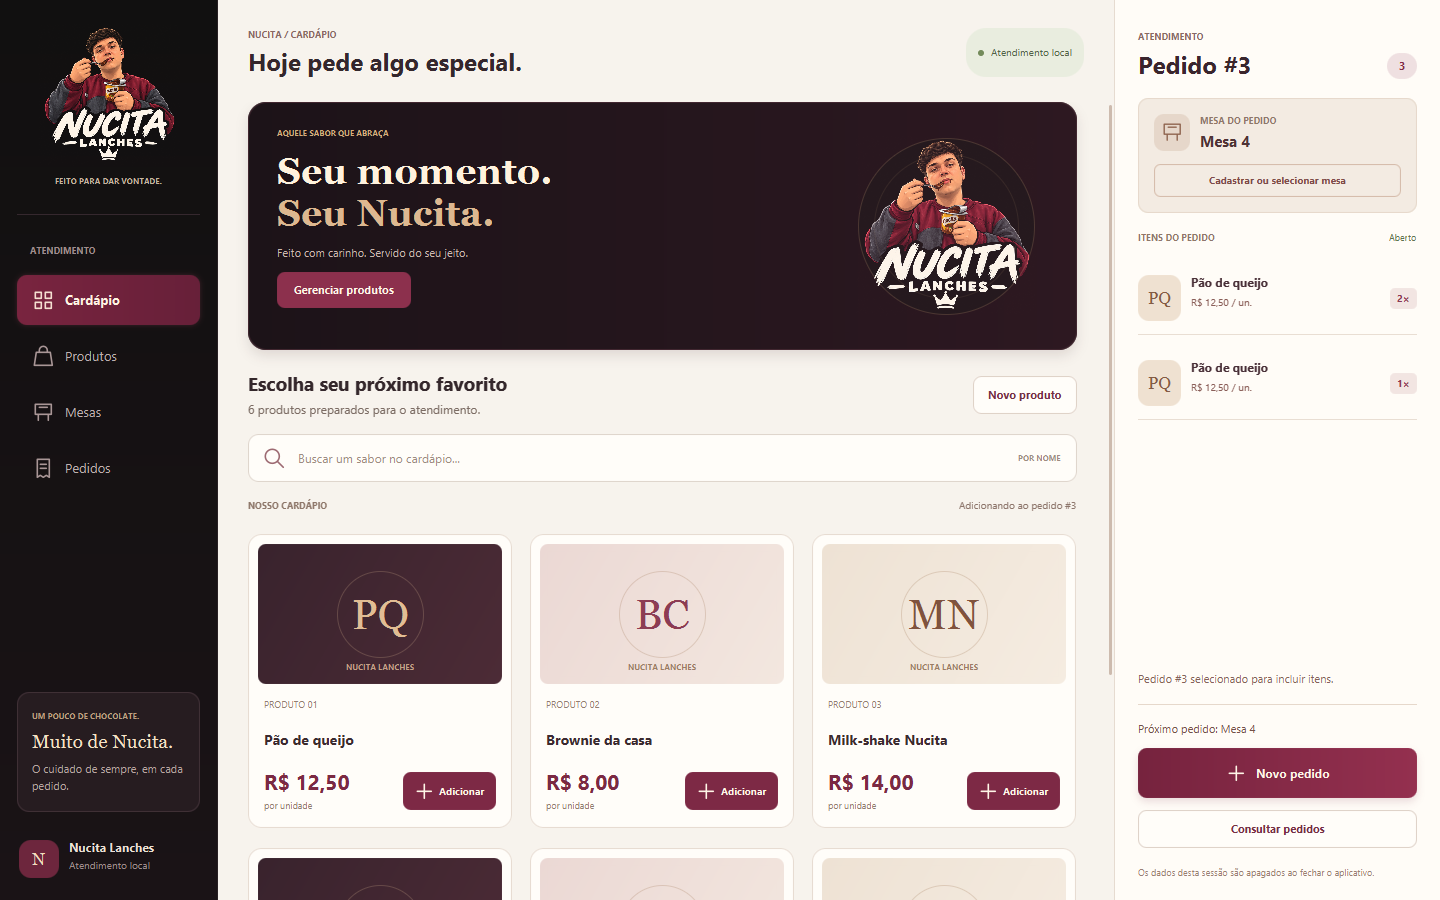
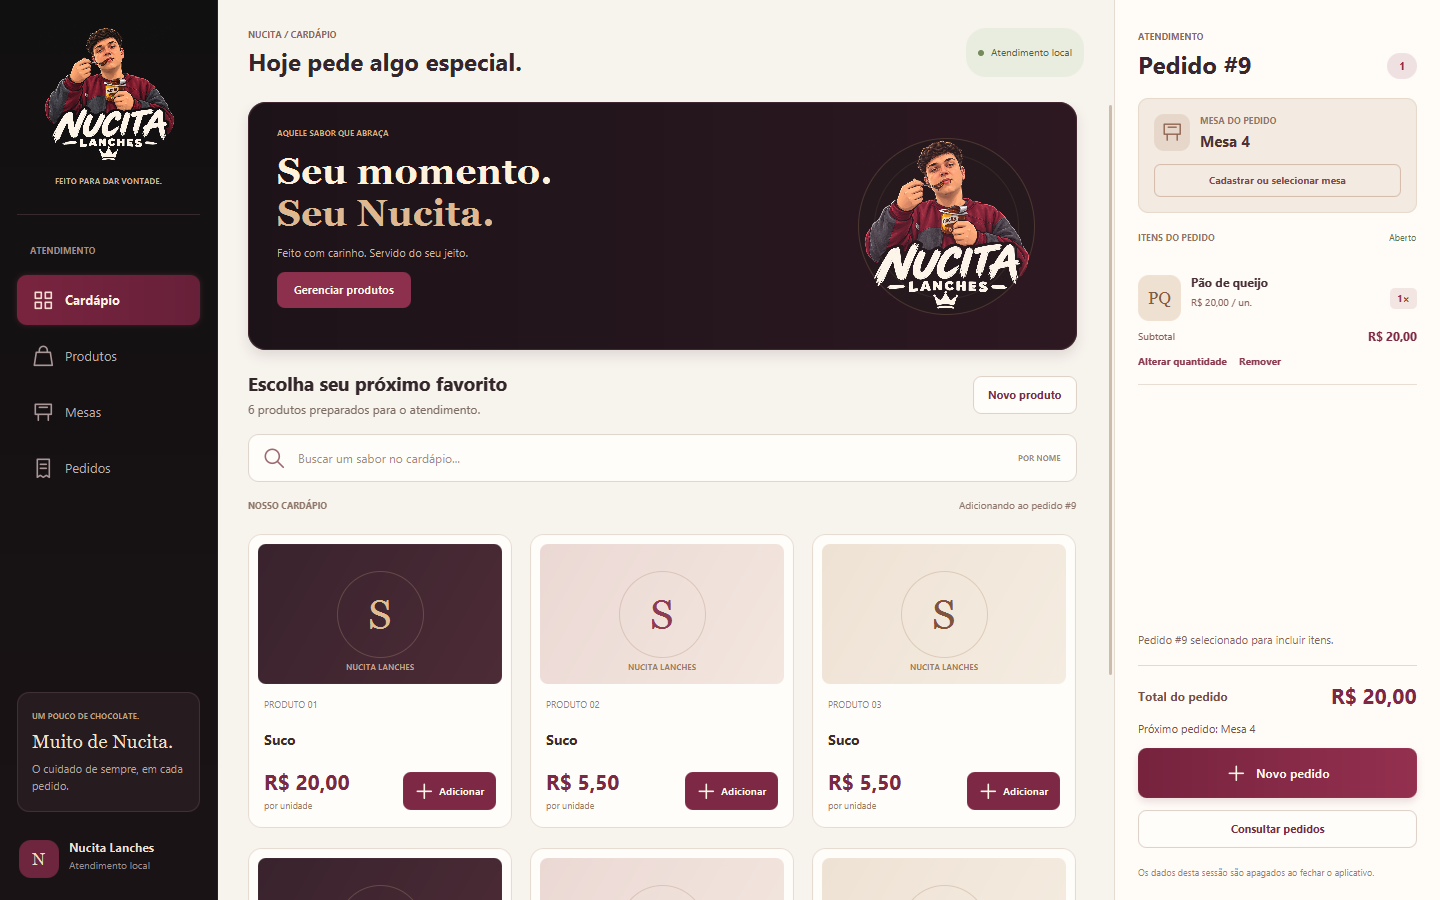
docs: registrar regras aprovadas e uso da Issue 04

diff --git a/README.md b/README.md
@@ -15,12 +15,13 @@ A interface utiliza as operações existentes de cadastro de produtos e mesas, c
 | Produtos | Cadastrar nome e preço e listar produtos. Na interface, a listagem pode ser filtrada por nome. |
 | Mesas | Cadastrar um número positivo e único, consultar pelo número, listar e selecionar para atendimento. |
 | Pedidos | Criar pedido para uma mesa cadastrada, com número atribuído pelo armazenamento e status inicial `ABERTO`. |
-| Itens | Adicionar produto e quantidade positiva a um pedido existente e consultar os itens. |
+| Itens | Adicionar produtos cadastrados, somar quantidades do mesmo produto, alterar quantidade e remover itens. |
+| Valores | Guardar o preço da inclusão, calcular subtotal por item e total atualizado do pedido, usando `double`. |
 | Atendimento | Consultar os pedidos, selecionar um para continuar a inclusão de itens e manter vários pedidos para a mesma mesa. |
 
-A camada JavaFX chama as classes existentes de `application`, `domain` e `storage`. As regras de negócio e o armazenamento do principal foram preservados na integração.
+A camada JavaFX chama as classes de `application`, `domain` e `storage`. A [Issue 04](docs/ISSUE-04.md) acrescenta as operações de valores, alteração de quantidade e remoção, com as decisões aprovadas para o projeto. O armazenamento continua em memória.
 
-**Ainda planejado:** subtotal e total do pedido, remoção de itens, finalização com bloqueio de alterações e persistência após fechar. O modelo possui o estado `FINALIZADO`, mas a operação de finalização ainda não existe.
+**Ainda planejado:** finalização com bloqueio de alterações e persistência após fechar. O modelo possui o estado `FINALIZADO`, mas a operação de finalização ainda não existe.
 
 ## Requisitos
 
@@ -59,7 +60,9 @@ O comando mantém a entrada `HelloApplication` e abre a interface de atendimento
 4. No cardápio, clique em **Adicionar**, informe a quantidade e confirme.
 5. Abra **Pedidos** e escolha **Continuar pedido** para incluir itens em um pedido já criado.
 
-O campo de preço aceita ponto ou vírgula como separador decimal e entrega o valor ao modelo original `Produto`, que valida nome e preço. Não há regra adicional de duas casas decimais no cadastro; a exibição monetária é apenas uma formatação da tela. Cada inclusão gera um item, conforme o comportamento existente.
+O campo de preço aceita ponto ou vírgula como separador decimal e entrega o valor ao modelo `Produto`, que valida nome e preço. Não há regra adicional de duas casas decimais no cadastro; a exibição monetária é apenas uma formatação da tela.
+
+Adicionar novamente o mesmo produto soma sua quantidade em um único item e mantém o preço guardado na primeira inclusão. No painel existente, use **Alterar quantidade** ou **Remover**; subtotal e total são atualizados. Todos os produtos cadastrados estão disponíveis, e produtos inexistentes são rejeitados.
 
 Ao fechar o programa, os produtos, mesas e pedidos da sessão são apagados, como no armazenamento original.
 
@@ -79,9 +82,9 @@ Compilar e empacotar:
 
 No Linux ou macOS, use `bash ./mvnw` no lugar de `.\mvnw.cmd`.
 
-A validação da integração em **27/10/2026** cobre **14 testes**: os 13 testes originais de domínio/aplicação e um teste de integração que abre a aplicação oficial, usa os formulários JavaFX e verifica o vínculo entre mesas, pedidos e itens. Também são conferidos a precisão de preço aceita pelo domínio e o layout em janela de 1220 × 730.
+A validação da Issue 04 em **27/10/2026** cobre **30 testes**: 29 testes de domínio/aplicação e um teste de integração que abre a aplicação oficial e usa os formulários JavaFX. São verificados subtotal, total, produto repetido, preço da inclusão, alteração, remoção, rejeições sem modificar o pedido e layout em janela de 1220 × 730.
 
-O teste JavaFX exige sessão gráfica. Para executar somente os testes originais em ambiente sem tela:
+O teste JavaFX exige sessão gráfica. Para executar os testes de domínio/aplicação em ambiente sem tela:
 
 ```powershell
 .\mvnw.cmd "-Dtest=RestaurantePedidoTest,PedidoTest,ItemPedidoTest" test

diff --git a/docs/ARQUITETURA.md b/docs/ARQUITETURA.md
@@ -9,7 +9,7 @@ O prefixo dos pacotes abaixo é `com.senai.nucitalanches.nucitalanches`.
 | Pacote | Responsabilidade |
 | --- | --- |
 | `domain` | Modelos originais `Produto`, `Mesa`, `Pedido`, `ItemPedido` e `StatusPedido`. |
-| `application` | Classe original `Restaurante`, com cadastro/listagem de produtos e mesas, criação de pedido e inclusão de itens. |
+| `application` | `Restaurante`, com produtos, mesas, criação de pedido, inclusão, alteração de quantidade e remoção de itens. |
 | `storage` | Classe original `BancoDeDados`, singleton com produtos, mesas e pedidos em memória. |
 | `console` | Menu original de cadastro/listagem de produtos e cadastro/consulta/listagem de mesas. |
 | `ui` | `MenuController` e `UiIcons`: apresentação JavaFX e adaptação dos campos para chamadas às operações existentes. |
@@ -24,6 +24,8 @@ O controller mantém apenas o estado da apresentação: texto de busca, mesa sel
 - Produtos: `Restaurante.cadastroProduto` e `listarProdutos`.
 - Mesas: `Restaurante.cadastrarMesa`, `consultarMesaPorNumero` e `listarMesas`.
 - Pedidos: `Restaurante.criarPedido` e `adicionarItemAoPedido`.
+- Alterações: `Restaurante.alterarQuantidadeItem` e `removerItemDoPedido`, verificando que o item pertence ao pedido.
+- Valores: `ItemPedido.getPrecoUnitario`, `getSubtotal` e `Pedido.getTotal`.
 - Consultas: `BancoDeDados.listarPedidos`, `Pedido.getItens` e os getters dos modelos.
 
 Não há segunda cópia de `Restaurante`, dos modelos ou de `BancoDeDados`, nem dependência de rede entre os dois repositórios. As classes de negócio do principal são usadas diretamente.
@@ -34,7 +36,9 @@ Não há segunda cópia de `Restaurante`, dos modelos ou de `BancoDeDados`, nem 
 
 `Pedido` continua associado a uma mesa cadastrada, começa `ABERTO` e recebe itens por meio das operações existentes. `getItens()` retorna uma cópia somente para leitura. `ItemPedido` exige produto não nulo e quantidade positiva.
 
-O enum inclui `FINALIZADO`, mas a transição ainda não está implementada. Total, subtotal, remoção de itens, bloqueio após finalização e persistência continuam fora das operações atuais.
+Na Issue 04, `ItemPedido` passou a guardar o preço da inclusão em um `double` imutável. `getSubtotal()` multiplica esse valor pela quantidade atual. `Pedido.getTotal()` soma os subtotais sem armazenar um total em cache; alterações e remoções refletem na próxima consulta. Produtos repetidos são identificados pelo ID do catálogo e somam quantidade no item existente, mantendo seu preço.
+
+`Restaurante` rejeita produtos não cadastrados e usa o produto do catálogo ao incluir; todos os produtos cadastrados são disponíveis. Quantidades não positivas e itens de outro pedido são rejeitados. O enum inclui `FINALIZADO`, mas a transição, o bloqueio após finalização e a persistência continuam fora das operações atuais.
 
 ## Recursos e execução
 
@@ -49,6 +53,6 @@ A estrutura modular e os comandos `mvnw javafx:run` / `mvnw test` continuam na r
 
 ## Testes
 
-Os 13 testes originais de domínio/aplicação permanecem intactos. `ui.MenuControllerIntegrationTest` abre `HelloApplication`, usa os botões e formulários reais e verifica as alterações nas mesmas coleções de `BancoDeDados`.
+As regressões anteriores foram mantidas e ampliadas para os critérios da Issue 04. O cadastro de produtos foi incluído no preparo dos testes de pedidos, pois produtos inexistentes agora são rejeitados. `ui.MenuControllerIntegrationTest` abre `HelloApplication`, usa os botões e formulários reais e verifica as alterações nas mesmas coleções de `BancoDeDados`.
 
 O teste da interface cobre cadastros, consultas, duplicidade de mesa, validações de preço/quantidade, criação e seleção de pedidos, associação de mesa e largura dos cartões. As capturas ficam em `target/ui-check/`; dados e capturas de teste não são carregados pelo programa.

diff --git a/docs/ISSUE-04.md b/docs/ISSUE-04.md
@@ -1,0 +1,50 @@
+# Issue 04 — Produtos no pedido e valores
+
+Implementação da [issue #6](https://github.com/Nucita-Lanches/Nucita-Lanches/issues/6), na branch `feat/issue-04-valores-pedido`.
+
+## Decisões aprovadas antes da implementação
+
+- Escopo completo na lógica Java e na interface JavaFX existente.
+- Todos os produtos cadastrados estão disponíveis; não há um campo adicional de disponibilidade.
+- Valores calculados com `double`.
+- Adicionar o mesmo produto soma a quantidade em um único item.
+- Guardar o preço do momento da inclusão. Ao somar unidades, o item existente mantém o preço da primeira inclusão.
+- Manter as camadas existentes e acrescentar os testes da issue.
+
+## Comportamento
+
+`Restaurante.adicionarItemAoPedido` procura o produto pelo ID no catálogo e rejeita produto nulo ou não cadastrado. A inclusão usa o produto do catálogo, impedindo que um objeto recebido com o mesmo ID substitua o preço por outro valor.
+
+`ItemPedido` captura o preço em `precoUnitario` na criação. `getSubtotal()` retorna `precoUnitario × quantidade`. Alterar o preço do produto no catálogo não muda esse valor guardado.
+
+`Pedido.adicionarItem` reúne o produto repetido e retorna o item efetivamente pertencente ao pedido. A soma não aceita ultrapassar o limite do tipo `Integer`, para manter uma quantidade válida. Produtos de IDs distintos continuam separados, mesmo que tenham o mesmo nome.
+
+`Restaurante.alterarQuantidadeItem` e `removerItemDoPedido` verificam que o pedido existe e que o item pertence a ele. Quantidades nulas, zero ou negativas são rejeitadas sem alterar o estado do pedido. Remoção é uma operação explícita, separada de alterar quantidade.
+
+`Pedido.getTotal()` soma os subtotais atuais. Não há total em cache para sincronizar após inclusão, alteração ou remoção. As operações usam `double` sem arredondar valores armazenados; o formato monetário da tela usa a apresentação já existente.
+
+## Exemplo
+
+1. Produto cadastrado a `5.50`, incluído com quantidade `2`: subtotal e total `11.00`.
+2. O preço do catálogo muda para `20.00`; adicionar mais uma unidade soma a quantidade para `3`, com total `16.50`.
+3. Alterar a quantidade desse item para `4` produz total `22.00`.
+4. Remover o item deixa o pedido vazio e o total em `0.00`.
+5. Uma nova inclusão após a remoção captura o preço atual `20.00`.
+
+## Interface reutilizada
+
+O layout, os recursos e a navegação foram mantidos. O painel de pedidos existente ganhou subtotal por item, total do pedido e ações de alterar quantidade/remover. O formulário de quantidade existente é reutilizado para editar o item. A consulta de pedidos também mostra os valores guardados e os subtotais.
+
+Finalização, pagamento, autenticação e persistência não fazem parte desta issue.
+
+## Validação
+
+30 testes: 29 de domínio/aplicação e um fluxo JavaFX que abre a aplicação, inclui, soma, altera e remove itens. São verificados cálculos com tolerância para `double`, preço capturado, produto inexistente, quantidade inválida, tentativa de modificar item de outro pedido e ausência de alterações após falhas. O teste da interface também confere os totais exibidos e o layout compacto.
+
+Executar, na raiz:
+
+```powershell
+.\mvnw.cmd test
+```
+
+O teste JavaFX exige sessão gráfica. Todos os cadastros de teste existem apenas no processo de validação.

diff --git a/PROJECT_CONTEXT.md b/PROJECT_CONTEXT.md
@@ -17,14 +17,15 @@ Nucita Lanches é um projeto de sistema para apoiar o atendimento de uma lanchon
 - Criar pedidos para mesas cadastradas e atribuir número ao pedido.
 - Adicionar ao pedido existente itens com produto não nulo e quantidade positiva.
 - Manter os itens dentro do pedido e expor uma cópia somente para leitura da lista.
+- Somar as quantidades do mesmo produto no pedido, preservando o preço da primeira inclusão.
+- Calcular subtotal (`preço unitário guardado × quantidade`) e total pela soma dos subtotais, com `double`.
+- Alterar quantidade positiva e remover item, atualizando os valores consultados.
+- Rejeitar produtos não cadastrados; todos os produtos do catálogo são considerados disponíveis.
 
-A interface JavaFX utiliza essas mesmas operações para o atendimento, e o menu de console original continua disponível. A integração preserva as classes de negócio e o armazenamento do principal; os detalhes estão em [`docs/INTEGRACAO-JAVAFX.md`](docs/INTEGRACAO-JAVAFX.md).
+A interface JavaFX utiliza essas operações para o atendimento, e o menu de console original continua disponível. A origem da integração está em [`docs/INTEGRACAO-JAVAFX.md`](docs/INTEGRACAO-JAVAFX.md); as regras aprovadas para valores e itens estão em [`docs/ISSUE-04.md`](docs/ISSUE-04.md).
 
 ## Planejado
 
-- O subtotal de um item é `preço do produto × quantidade`.
-- O total é a soma dos subtotais dos itens.
-- Remover itens atualiza o total.
 - Um pedido finalizado não aceita alterações próprias de um pedido aberto.
 
 O modelo contém o status `FINALIZADO`, mas ainda não há operação para alterar o status nem regra que bloqueie alterações após a finalização. Os dados continuam apenas em memória.

diff --git a/docs/INTEGRACAO-JAVAFX.md b/docs/INTEGRACAO-JAVAFX.md
@@ -1,5 +1,7 @@
 # Integração da interface JavaFX
 
+Este documento registra a integração inicial (PR #19). As operações implementadas depois dela para cálculo de valores e manutenção dos itens estão descritas em [`ISSUE-04.md`](ISSUE-04.md).
+
 ## Origem e destino
 
 - Base: `Nucita-Lanches/Nucita-Lanches`, commit `f30e1d1c86a10699b87a8db29fc2b1498f81faf6` da `main`.
@@ -10,7 +12,7 @@ Foram incorporados o controller da interface, os ícones vetoriais, o FXML, o CS
 
 ## Uma única implementação das regras
 
-Os arquivos existentes em `application/`, `domain/`, `storage/` e `console/` foram preservados. Os testes originais também foram mantidos.
+Na integração inicial, os arquivos existentes em `application/`, `domain/`, `storage/` e `console/` foram preservados. Os testes originais também foram mantidos nessa etapa.
 
 A integração não traz as cópias de classes de negócio que existiam no projeto JavaFX. O controller usa diretamente os objetos e métodos do principal. Não foram incluídas operações de exclusão, edição, autenticação, pagamento, finalização ou persistência que não existam no principal.
 
